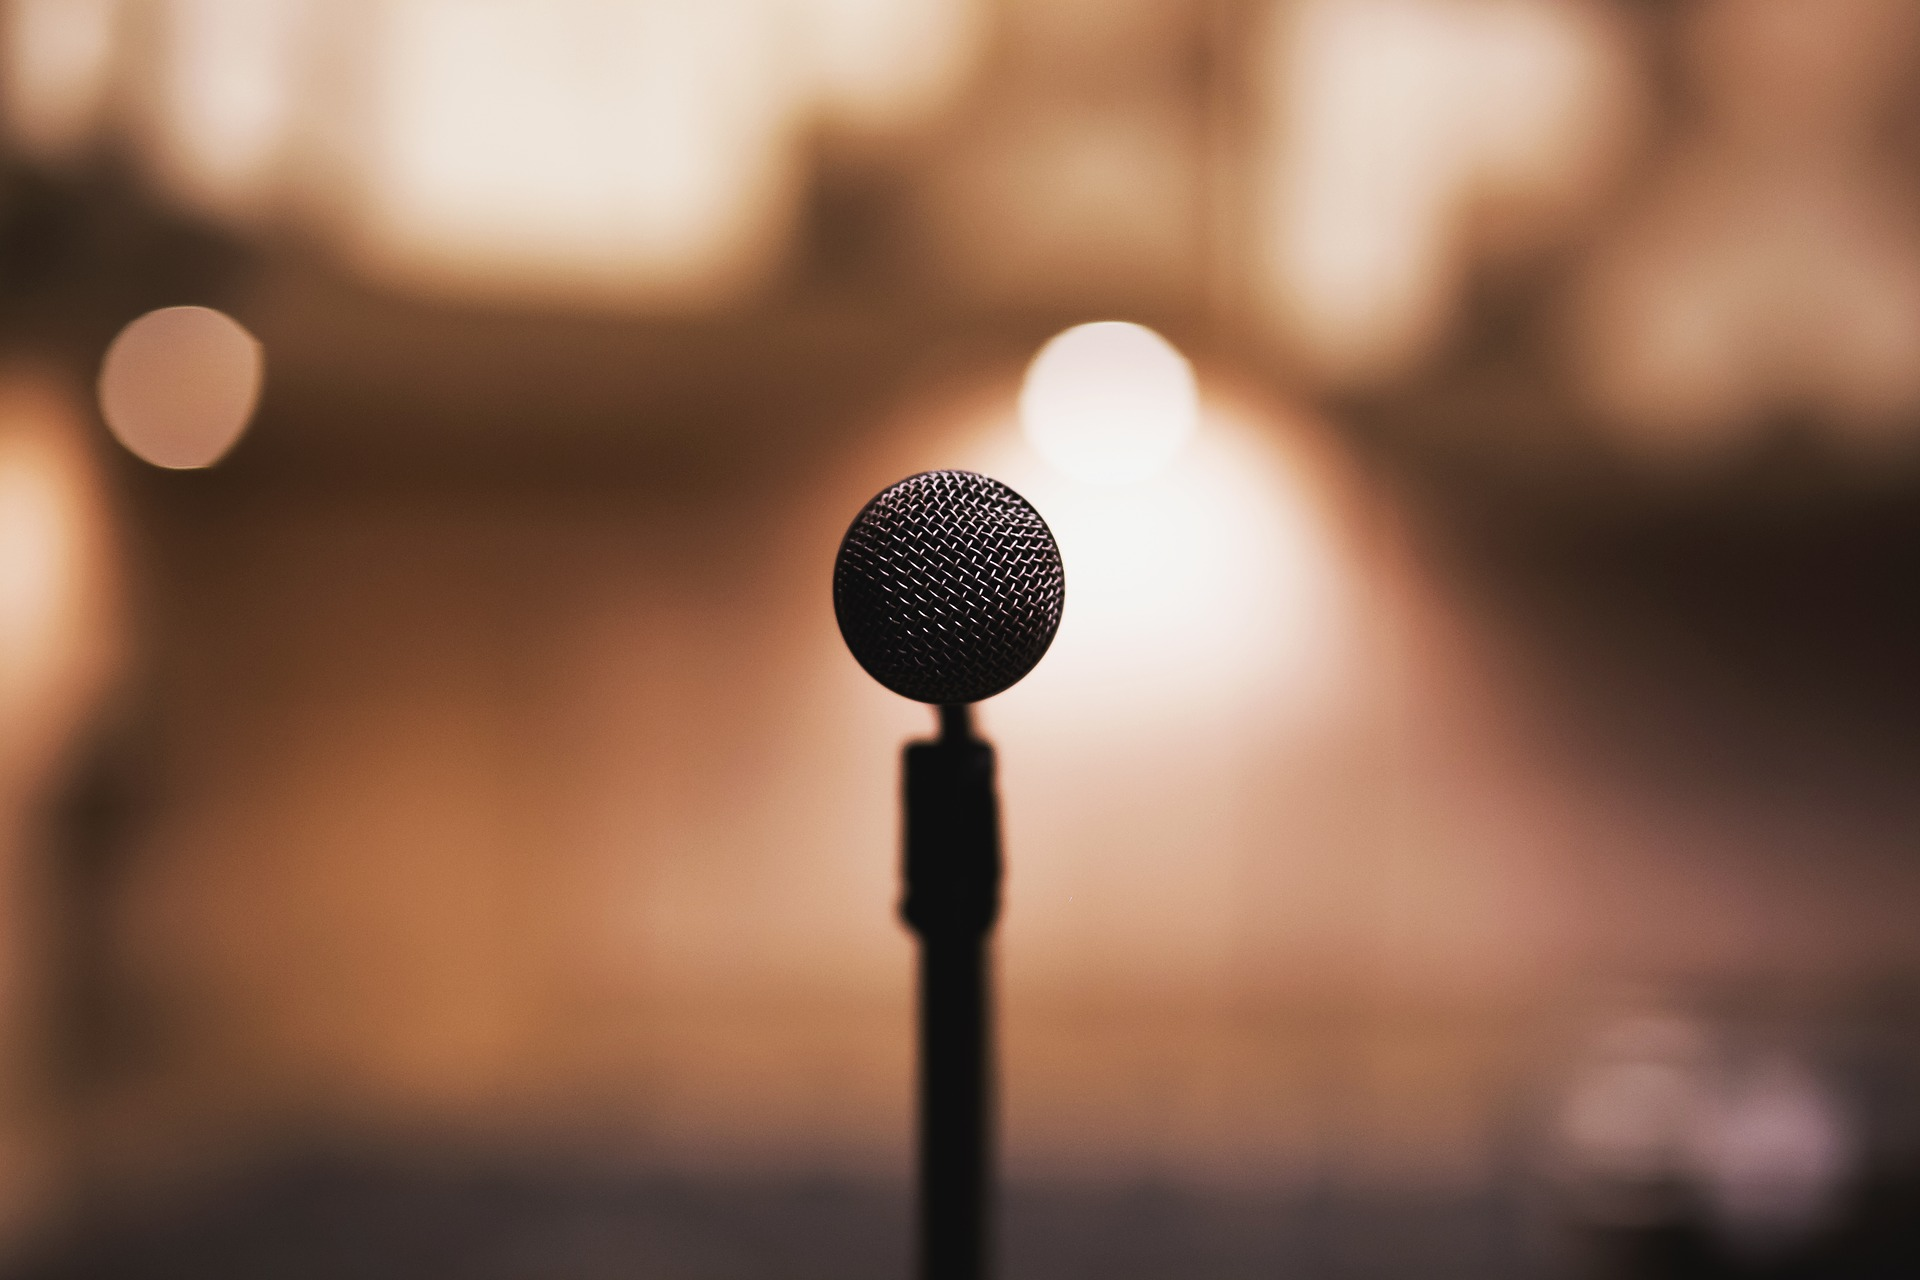
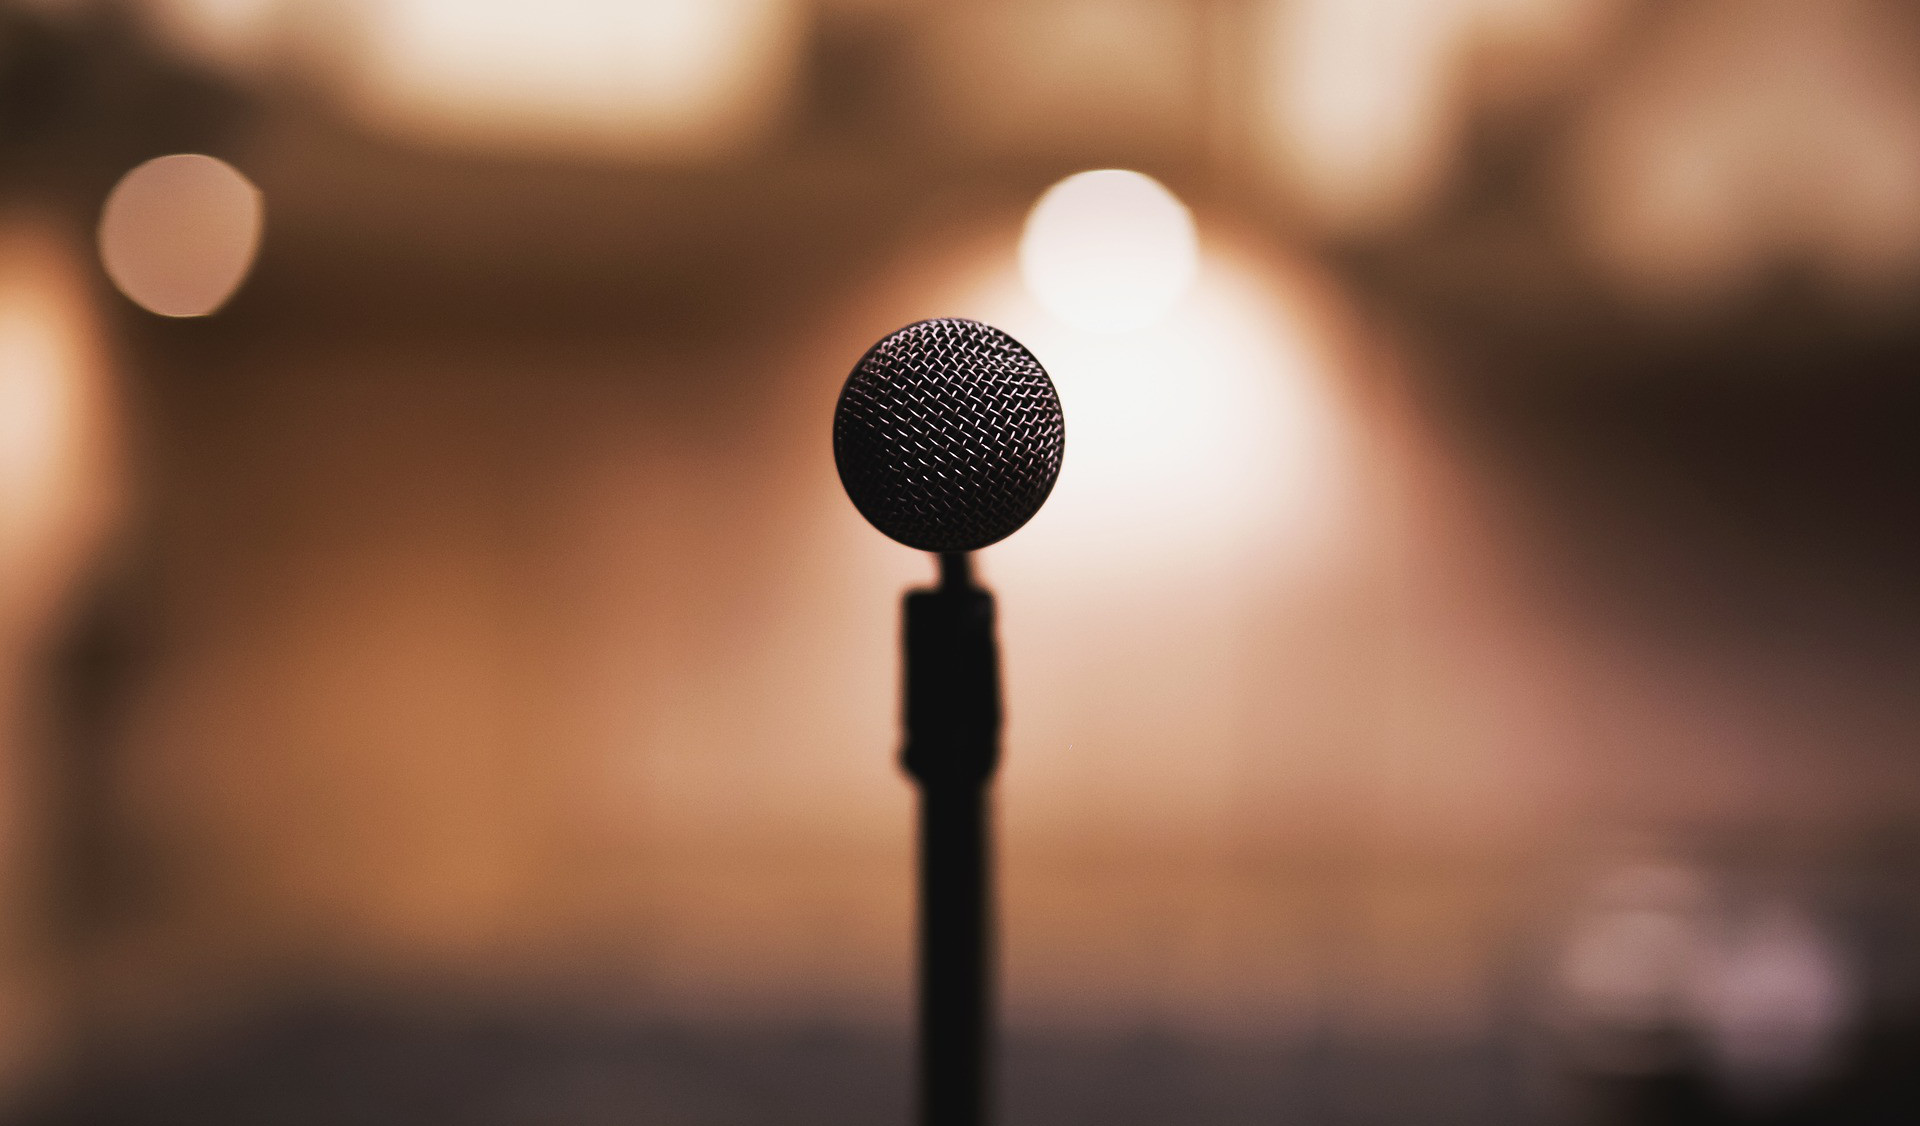
Tweak to images

diff --git a/index.html b/index.html
@@ -45,7 +45,7 @@
 				<!-- About -->
 				<article id="about">
 					<h2 class="major">About</h2>
-					<span class="image main"><img src="images/profile.png" alt="" /></span>
+					<span class="image main"><img src="images/profile-wide.png" alt="" /></span>
 					<p>Experienced application security engineer with an origin as a software developer. 
 						Primarily focused on web based application security with a special interest in TLS 
 						related subjects. Experienced in providing technical leadership in relation to 
